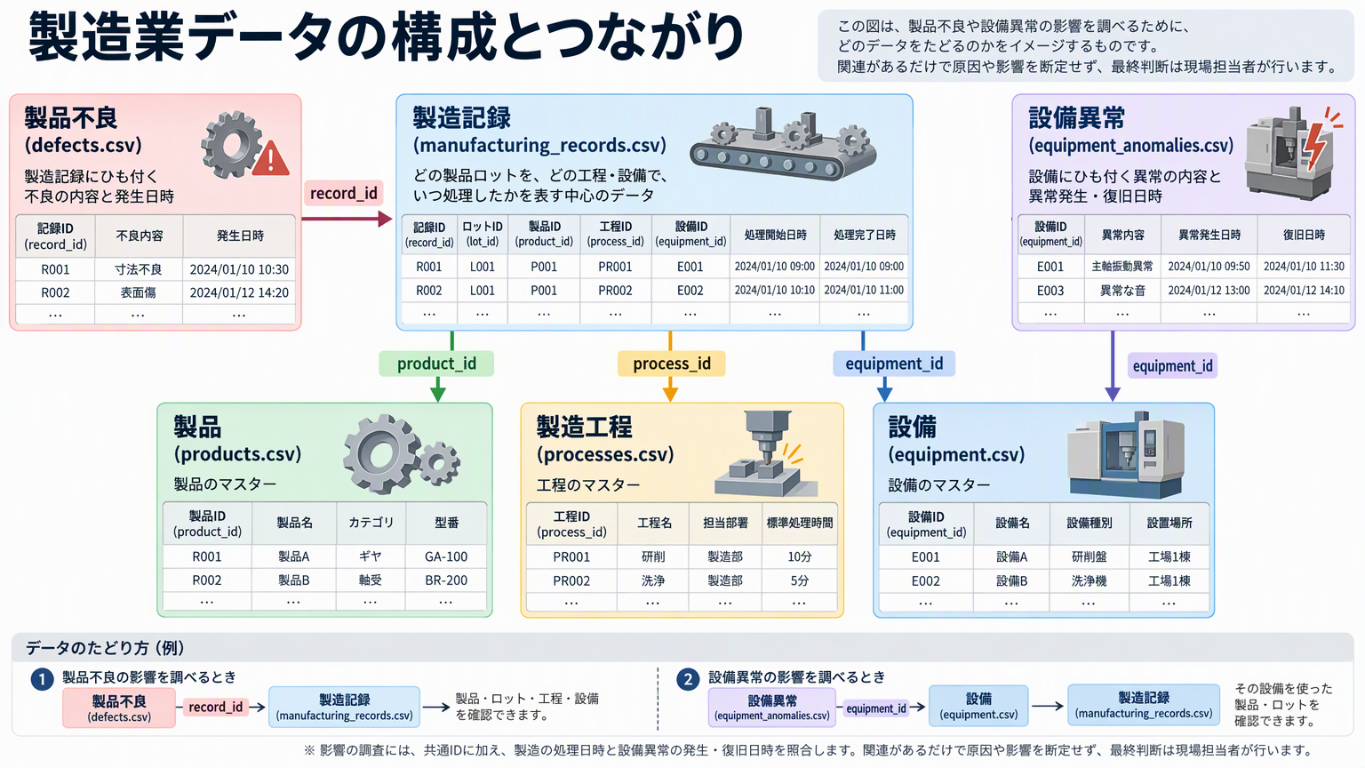
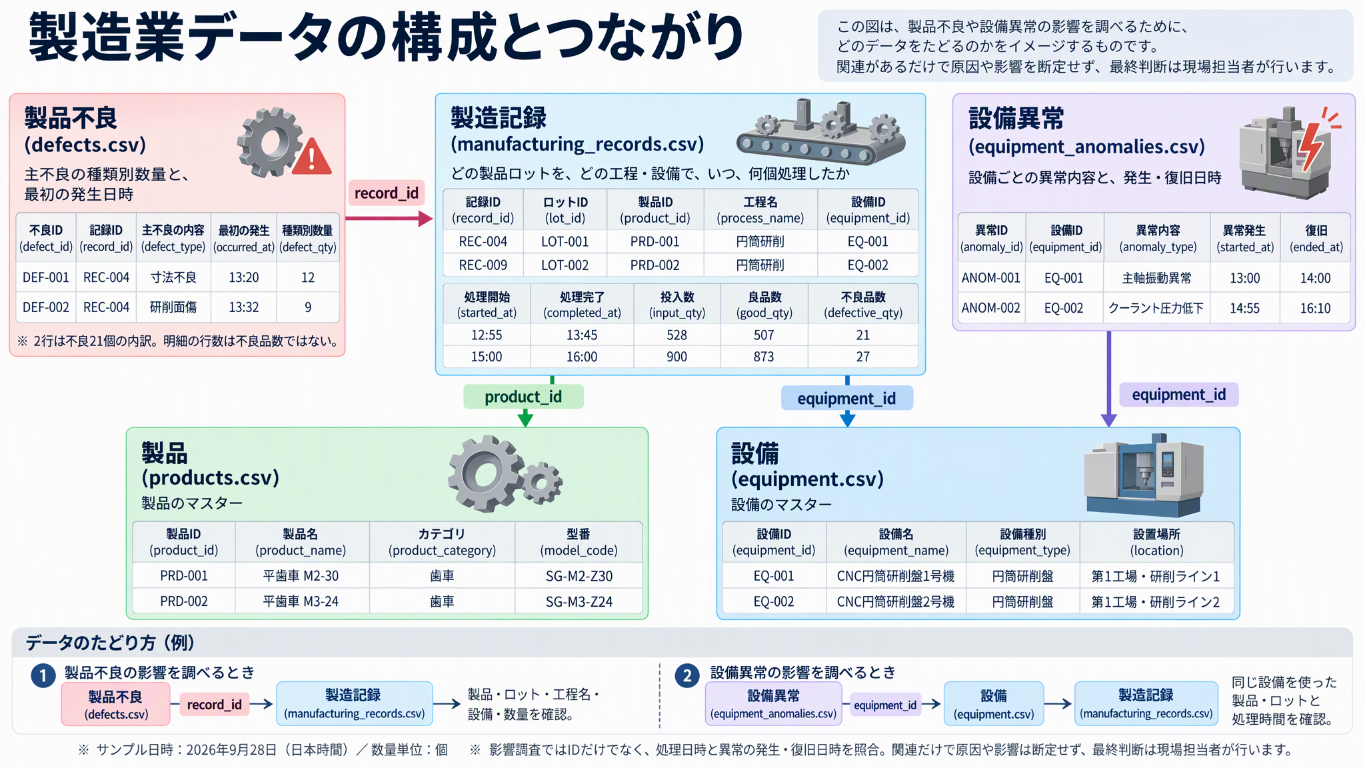
製造業データの不良数量を更新し、演習課題の内容を明確化。セマンティックモデルの設計例を追加し、画像を更新。

diff --git a/exercises.md b/exercises.md
@@ -23,13 +23,15 @@
 
 ## 演習課題
 
-上記の要望を受けた担当者として、提供された製造業データを確認し、**顧客の要望に応えるデータエージェントを作成してください。**
+上記の要望を受けた担当者として、提供された製造業データを確認し、**顧客の要望に応える仕組みを作成してください。**
+
+**顧客の要望を満たせれば、実現手段は問いません。** 使用する機能や構成は自由に選択してください。
 
 1. データの内容と、製品・ロット・工程・設備などの関係を確認してください。
-2. 製品不良と設備異常のそれぞれを起点に、影響範囲を調査できるデータエージェントを作成してください。
-3. 作成したデータエージェントに質問し、調査対象と、その判断の根拠となるデータを確認できるか検証してください。
+2. 製品不良と設備異常のそれぞれを起点に、影響範囲を調査できるようにしてください。
+3. 想定される質問を使って、調査対象と、その判断の根拠となるデータを確認できるか検証してください。
 
-なお、データから確認できる事実と、原因や影響に関する推測は区別してください。データエージェントは調査や判断を支援するものであり、最終的な原因の断定や再検品の要否の判断は、現場の担当者が行う想定です。
+なお、データから確認できる事実と、原因や影響に関する推測は区別してください。作成する仕組みは調査や判断を支援するものであり、最終的な原因の断定や再検品の要否の判断は、現場の担当者が行う想定です。
 
 ## 想定される質問
 
@@ -84,7 +86,7 @@ IDを知らない現場担当者が、前の回答を踏まえて順に調査を
 
 ![製造業データの構成とつながり](./images/exercises/manufacturing-data-overview.png)
 
-画像は工程マスターを分けていた旧構成のイメージで、図中のサンプル値は説明用です。現在は工程名を製造記録に統合しています。実際の5種類の構成・項目・値は、以下の Mermaid 図と各 CSV を参照してください。
+画像は5種類のデータの構成とつながりを示しています。工程名は製造記録に含まれます。図中のサンプル値は説明用です。詳細は、以下の Mermaid 図と各 CSV を参照してください。
 
 ```mermaid
 flowchart LR
@@ -158,6 +160,142 @@ flowchart LR
 | ANOM-004 | EQ-002 | 主軸振動異常 | 07:00 | 07:30 |
 | ANOM-005 | EQ-007 | 炉温偏差警告 | 09:35 | 11:05 |
 
+## セマンティックモデルの設計
+
+以下は、セマンティックモデルを利用する場合の設計例です。この構成を採用する必要はありません。
+
+モデル名は `manufacturing_semantic_model` とし、`manufacturing_lakehouse` 内の5つのテーブルを使用します。作成操作は、[ハンズオンの「5. セマンティックモデルの作成」](./handson.md#5-セマンティックモデルの作成)を参考にしてください。
+
+### テーブル構成
+
+CSV の列をそのまま使用し、次の役割で整理します。
+
+| テーブル | 役割 | 1行が表すもの | 一意なキー |
+| --- | --- | --- | --- |
+| `products` | 製品マスター | 1製品 | `product_id` |
+| `equipment` | 設備マスター | 1設備 | `equipment_id` |
+| `manufacturing_records` | 製造実績 | 1ロットを1工程・1設備で処理した記録 | `record_id` |
+| `defects` | 不良の内訳 | 製造記録内の主不良1種類の数量 | `defect_id` |
+| `equipment_anomalies` | 設備異常の履歴 | 1件の設備異常 | `anomaly_id` |
+
+ロットと工程は別テーブルにせず、`manufacturing_records` の `lot_id` と `process_name` を使用します。1ロットに複数工程があるため、`lot_id` は一意なキーにはしません。
+
+- ID・名称・分類・工程名・不良内容・異常内容は文字列にします。
+- `input_qty`・`good_qty`・`defective_qty`・`defect_qty` は整数にします。
+- `started_at`・`completed_at`・`occurred_at`・`ended_at` は日時として扱い、比較時のタイムゾーンをそろえます。
+
+### リレーションシップ
+
+次の4本を、すべて**1対多・単一方向・アクティブ**で設定します。フィルターは1側から多側へ伝わります。
+
+| 1側のテーブル・列 | 多側のテーブル・列 | フィルター方向 |
+| --- | --- | --- |
+| `products[product_id]` | `manufacturing_records[product_id]` | 製品 → 製造記録 |
+| `equipment[equipment_id]` | `manufacturing_records[equipment_id]` | 設備 → 製造記録 |
+| `manufacturing_records[record_id]` | `defects[record_id]` | 製造記録 → 不良の内訳 |
+| `equipment[equipment_id]` | `equipment_anomalies[equipment_id]` | 設備 → 設備異常 |
+
+`manufacturing_records` と `equipment_anomalies` は、同じ設備に複数の記録があるため、`equipment_id` 同士で直接つなぎません。設備マスターを介して関連付け、時間帯の重なりは検索・クエリで確認します。
+
+### 集計指標（メジャー）
+
+ロット全体の指標と、工程別の延べ数量を区別します。ロットの初工程・最終工程は、行の並び順ではなく処理日時で判定します。
+
+| メジャー名の例 | 定義 |
+| --- | --- |
+| ロット初工程投入数 | 対象ロットごとに、`started_at` が最も早い製造記録の `input_qty` を取得して合計する |
+| ロット最終良品数 | 対象ロットごとに、`completed_at` が最も遅い製造記録の `good_qty` を取得して合計する |
+| ロット不良品数 | `[ロット初工程投入数] - [ロット最終良品数]` |
+| ロット不良率 | `DIVIDE([ロット不良品数], [ロット初工程投入数])` |
+| ロット歩留まり | `DIVIDE([ロット最終良品数], [ロット初工程投入数])` |
+| 種類別不良品数 | `SUM(defects[defect_qty])` |
+| 工程不良率 | `DIVIDE(SUM(manufacturing_records[defective_qty]), SUM(manufacturing_records[input_qty]))` |
+
+- 比率のメジャーはパーセント表示にします。DAX では100を掛けず、`DIVIDE` の分母が0の場合は空白とします。
+- ロット全体の指標は、対象ロットの**全工程**を参照して計算します。工程や設備で絞り込んだ結果を、ロットの初工程・最終工程と取り違えないようにしてください。
+- 複数ロットの合計では、各ロットの初工程投入数・最終良品数をそれぞれ合計してから比率を計算します。ロット別の率の単純平均や、全工程の投入数合計は使いません。
+- 不良種類で絞り込んだだけでは、製造記録側へフィルターは逆流しません。種類別数量には `defects[defect_qty]` を使い、不良種類別の数量とロット全体の不良品数を混同しないようにします。
+- 不良明細や設備異常を結合して、同じ製造記録の投入数・良品数・不良品数を重複集計しないようにしてください。
+
+### 想定質問に対応する調べ方
+
+| 質問 | セマンティックモデルでの確認方法 |
+| --- | --- |
+| 1. 不良率が高いロット | `manufacturing_records[lot_id]` ごとに `[ロット不良率]` を求め、降順に並べる。製品名や初工程投入数・不良品数も示す |
+| 2. 不良の内訳 | 対象の `lot_id` で絞り込み、`defects[defect_type]` ごとに `[種類別不良品数]` を集計する |
+| 3. 設備異常との関連性 | 対象ロットの不良明細と製造記録から設備ID・不良発生時刻・製造時間帯を取得し、同じ設備の異常発生・復旧日時と比較する |
+
+質問3では、ロットを選択しても、製造記録から設備マスターを経て設備異常へはフィルターが自動で伝わりません。検索・クエリでは、対象の設備IDと日時条件を設備異常側に明示的に適用してください。関連を確認するためだけに、リレーションシップを一律に双方向へ変更する必要はありません。
+
+不良の最初の発生が異常中かどうかは、同じ設備について **異常発生日時 ≤ 不良発生日時 < 復旧日時** で確認します。同じ設備・時間帯でも原因とは断定せず、その主不良の全数が異常中に発生したとも判断しません。
+
+## オントロジーの設計
+
+以下は、オントロジーを利用する場合の設計例です。この構成を採用する必要はありません。
+
+5種類のデータを、次の5つのエンティティ型と4つのリレーションシップ型で表します。オントロジー名は `manufacturing_ontology` とし、各エンティティを `manufacturing_lakehouse` 内の対応するテーブルにバインドします。作成操作は、[ハンズオンの「7. オントロジーの作成」](./handson.md#7-オントロジーの作成)を参考にしてください。
+
+### エンティティ型
+
+プロパティ名は、CSV の列名をそのまま使用します。
+
+| エンティティ型 | 意味 | バインドするテーブル | エンティティ型キー | キー以外のプロパティ |
+| --- | --- | --- | --- | --- |
+| `Product` | 製品マスターの1製品 | `products` | `product_id` | `product_name`, `product_category`, `model_code` |
+| `Equipment` | 設備マスターの1設備 | `equipment` | `equipment_id` | `equipment_name`, `equipment_type`, `location` |
+| `ManufacturingRecord` | 1ロットを1工程・1設備で処理した実績 | `manufacturing_records` | `record_id` | `lot_id`, `product_id`, `process_name`, `equipment_id`, `started_at`, `completed_at`, `input_qty`, `good_qty`, `defective_qty` |
+| `Defect` | 製造記録内の主不良の種類別内訳 | `defects` | `defect_id` | `record_id`, `defect_type`, `occurred_at`, `defect_qty` |
+| `EquipmentAnomaly` | 設備異常の1イベント | `equipment_anomalies` | `anomaly_id` | `equipment_id`, `anomaly_type`, `started_at`, `ended_at` |
+
+同じロットには複数工程の記録があるため、**製造記録のキーは `lot_id` ではなく `record_id`** にします。ロットと工程は独立したエンティティにせず、`ManufacturingRecord` の `lot_id` と `process_name` で扱います。
+
+### プロパティの型と意味
+
+| 対象 | 型 | 扱い |
+| --- | --- | --- |
+| ID・名称・分類・工程名・不良内容・異常内容 | 文字列 | IDはエンティティの識別や関係の照合に使用する |
+| `input_qty`, `good_qty`, `defective_qty`, `defect_qty` | 整数 | 単位は「個」。不良明細の行数と不良品数を区別する |
+| `started_at`, `completed_at`, `occurred_at`, `ended_at` | 日時 | CSV の日本時間（`+09:00`）を保持するか、同じタイムゾーンにそろえて比較する |
+
+- `Defect.defect_type` は不良の内容であり、確定した原因ではありません。
+- `Defect.defect_qty` は主不良の種類別数量です。製造記録ごとの合計を `ManufacturingRecord.defective_qty` と一致させます。
+- `Defect.occurred_at` は、その主不良の最初の発生時刻です。内訳の全数がその時刻に発生したとは扱いません。
+- 不良率や歩留まりはCSVの固定値として追加せず、数量と工程順から集計・計算します。
+
+### リレーションシップ型
+
+以下は、**マッピングテーブルを使用せず、元とターゲットのプロパティを直接照合する**設計です。元からターゲットへの関係はいずれも多対1です。
+
+| 元のエンティティ型 | リレーションシップ名 | ターゲットのエンティティ型 | 元のプロパティ | ターゲットのプロパティ |
+| --- | --- | --- | --- | --- |
+| `ManufacturingRecord` | `ProducesProduct`（製造する製品） | `Product` | `product_id` | `product_id` |
+| `ManufacturingRecord` | `UsesEquipment`（使用する設備） | `Equipment` | `equipment_id` | `equipment_id` |
+| `Defect` | `FoundInRecord`（不良が発生した製造記録） | `ManufacturingRecord` | `record_id` | `record_id` |
+| `EquipmentAnomaly` | `OccursOnEquipment`（異常が発生した設備） | `Equipment` | `equipment_id` | `equipment_id` |
+
+不良と設備異常を直接結ぶ「原因」のリレーションシップは作りません。**同じ設備につながることと、異常の時間帯が重なることを、調査時に組み合わせて確認**します。
+
+> Graph も作成する場合は、関係の名前・方向の定義に加え、リレーションシップのデータバインドも必要です。[ハンズオンの「9. Graph の作成と確認」](./handson.md#9-graph-の作成と確認)を参考に、Graph に投影する関係も設定してください。
+
+### 想定質問に対応する調べ方
+
+| 質問 | オントロジー上で確認する内容 |
+| --- | --- |
+| 1. 不良率が高いロット | `ManufacturingRecord` を `lot_id` ごとにまとめ、処理日時で工程順を確認する。初工程の投入数と最終工程の良品数から、ロット全体の不良率を計算する |
+| 2. 不良の内訳 | 対象ロットの製造記録にひも付く `Defect` を確認し、ロット・不良種類ごとに `defect_qty` を集計する |
+| 3. 設備異常との関連性 | `Defect` → `ManufacturingRecord` → `Equipment` をたどり、同じ設備にひも付く `EquipmentAnomaly` と日時を比較する |
+
+質問3では、次の条件で関連や影響の候補を確認します。期間はすべて **開始時刻を含み、終了時刻を含まない**ものとします。
+
+| 確認したいこと | 同じ設備であることに加えて適用する条件 |
+| --- | --- |
+| 不良の最初の発生が異常中か | `EquipmentAnomaly.started_at <= Defect.occurred_at < EquipmentAnomaly.ended_at` |
+| 製造時間帯が異常と重なるか | `ManufacturingRecord.started_at < EquipmentAnomaly.ended_at` かつ `ManufacturingRecord.completed_at > EquipmentAnomaly.started_at` |
+
+日時条件や不良率の計算は、エンティティとリレーションシップを定義するだけでは自動的に適用されません。データエージェントの指示や検索・クエリで明示してください。不良明細や設備異常を結合するときも、同じ製造記録の数量を重複集計しないようにします。
+
+同じ設備・時間帯に不良と異常があっても、原因と断定はしません。また、不良の最初の発生時刻が異常中でも、`defect_qty` の全数が異常中に発生したとは判断できません。
+
 ## 命名規則案
 
 ワークスペースは、[ハンズオン](./handson.md)で作成した自分のワークスペース（例：`fabriciq-handson-yamada`）を引き続き使用します。
@@ -178,3 +316,58 @@ flowchart LR
 使用する構成に応じて、必要なアイテムだけを作成してください。すべてのモデルやデータエージェントを作成する必要はありません。
 
 テーブルは `manufacturing_lakehouse` 内に作成し、CSV の拡張子を除いたファイル名を使用します（例：`products.csv` → `products`、`manufacturing_records.csv` → `manufacturing_records`）。
+
+## 答え合わせ
+
+演習に取り組んだ後に確認してください。以下は、現在の CSV 全期間を対象とした回答例です。質問1では不良率の上位3ロットを取り上げ、質問2・3もその3ロットを対象にします。使用する手段や回答の表現が異なっていても、数値と根拠が一致していれば問題ありません。
+
+### 質問1：不良率が高いロット
+
+ロット全体の不良率を計算すると、上位3ロットは次のとおりです。不良率は小数点以下2桁に丸めています。
+
+| 順位 | ロット | 製品名 | 初工程の投入数 | 最終工程の良品数 | ロット全体の不良品数 | 不良率 |
+| --- | --- | --- | ---: | ---: | ---: | ---: |
+| 1 | LOT-007 | 段付きシャフト φ30 | 950 | 752 | 198 | 20.84% |
+| 2 | LOT-070 | ローター軸 φ40 | 900 | 730 | 170 | 18.89% |
+| 3 | LOT-024 | はすば歯車 M3-32 | 950 | 790 | 160 | 16.84% |
+
+例えば、`LOT-007` は **（950 − 752）÷ 950 × 100 ≒ 20.84%** です。各工程の投入数を足した値を分母にしないようにしてください。
+
+### 質問2：対象ロットの不良の内訳
+
+製造記録と不良明細を `record_id` で関連付け、対象ロットごとに `defect_qty` を集計します。
+
+| ロット | 研削面傷 | 浸炭深さ不足 | 合計 |
+| --- | ---: | ---: | ---: |
+| LOT-007 | 180 | 18 | 198 |
+| LOT-070 | 170 | 0 | 170 |
+| LOT-024 | 160 | 0 | 160 |
+
+単位は「個」です。表の0個は対応する不良明細がないことを表します。この3ロットには、上記以外の不良種類はありません。
+
+共通して多い不良は **研削面傷** で、3ロット合計では **510個** です。全ロットでは研削面傷が **685個**、次に多い真円度不良が **267個** あります。全体の合計を、各ロットの数量として繰り返し表示しないようにしてください。
+
+### 質問3：研削面傷と設備異常の関連性
+
+3ロットの研削面傷は、いずれも**円筒研削工程・CNC円筒研削盤1号機（`EQ-001`）**で発生しています。同じ設備では、次のクーラント圧力低下が記録されています。日時はすべて日本時間（`+09:00`）です。
+
+| ロット | 製造記録 | 不良明細 | 研削面傷の最初の発生日時 | 設備異常 | 異常期間（発生と同日） |
+| --- | --- | --- | --- | --- | --- |
+| LOT-007 | REC-034 | DEF-096 | 2026-09-29 15:24 | ANOM-089 | 15:00～15:40 |
+| LOT-070 | REC-349 | DEF-079 | 2026-10-12 15:09 | ANOM-081 | 14:50～15:25 |
+| LOT-024 | REC-119 | DEF-035 | 2026-10-02 12:18 | ANOM-075 | 12:05～12:45 |
+
+いずれも、同じ設備で **異常発生日時 ≤ 不良の最初の発生日時 < 復旧日時** が成立しています。各ロットの円筒研削の製造時間帯も、対応する異常期間と重なっています。
+
+回答では、例えば次のように事実と推測を分けます。
+
+> 不良率上位3ロットでは研削面傷が多く、共通してCNC円筒研削盤1号機を使用しています。各ロットの研削面傷の最初の発生時刻は、同設備のクーラント圧力低下の期間内にあります。このため、クーラント圧力低下は研削面傷との関連が疑われる調査候補です。ただし、このデータだけで原因とは断定できません。
+
+`defect_qty` は製造記録内の種類別数量であり、**510個すべてが異常期間内に発生したとは判断できません**。設備の点検記録や加工条件などを追加確認し、原因や再検品の要否は現場で判断します。
+
+### 確認ポイント
+
+- ロット全体の不良率と、特定工程だけの不良率を区別できていること。
+- ロットごとの不良内訳の合計が、そのロットの不良品数と一致すること。
+- 不良と設備異常を、同じ設備IDと日時条件の両方で照合していること。
+- 関連するデータのIDや日時を示し、原因や影響の断定を避けていること。
